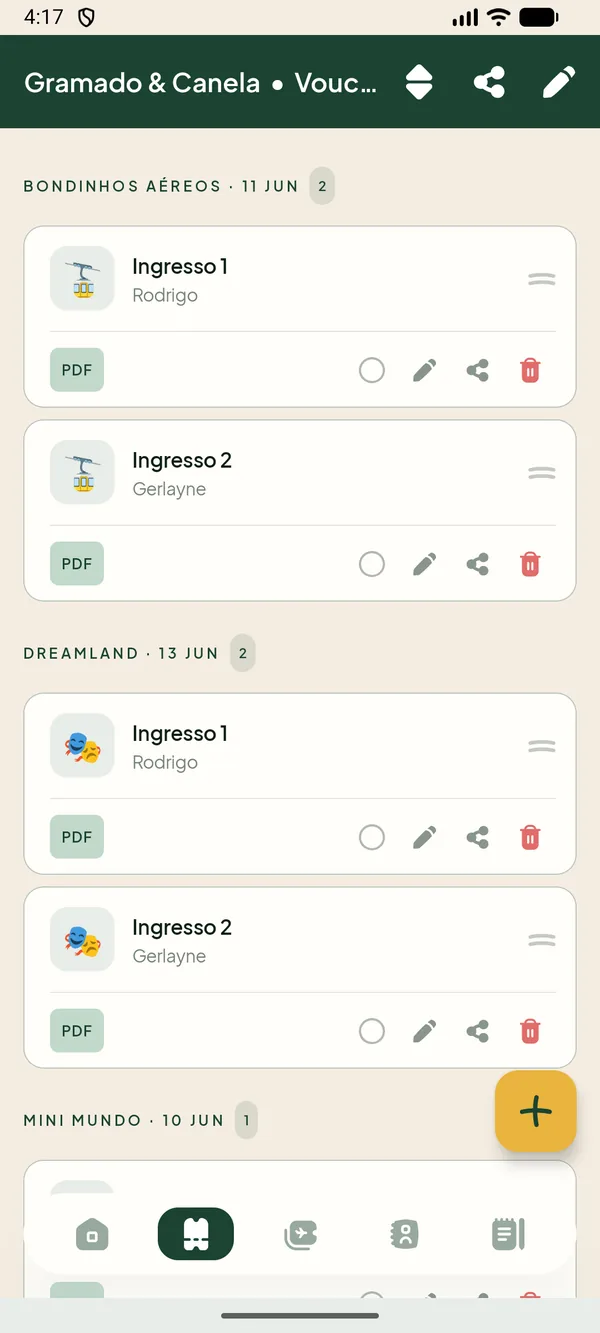
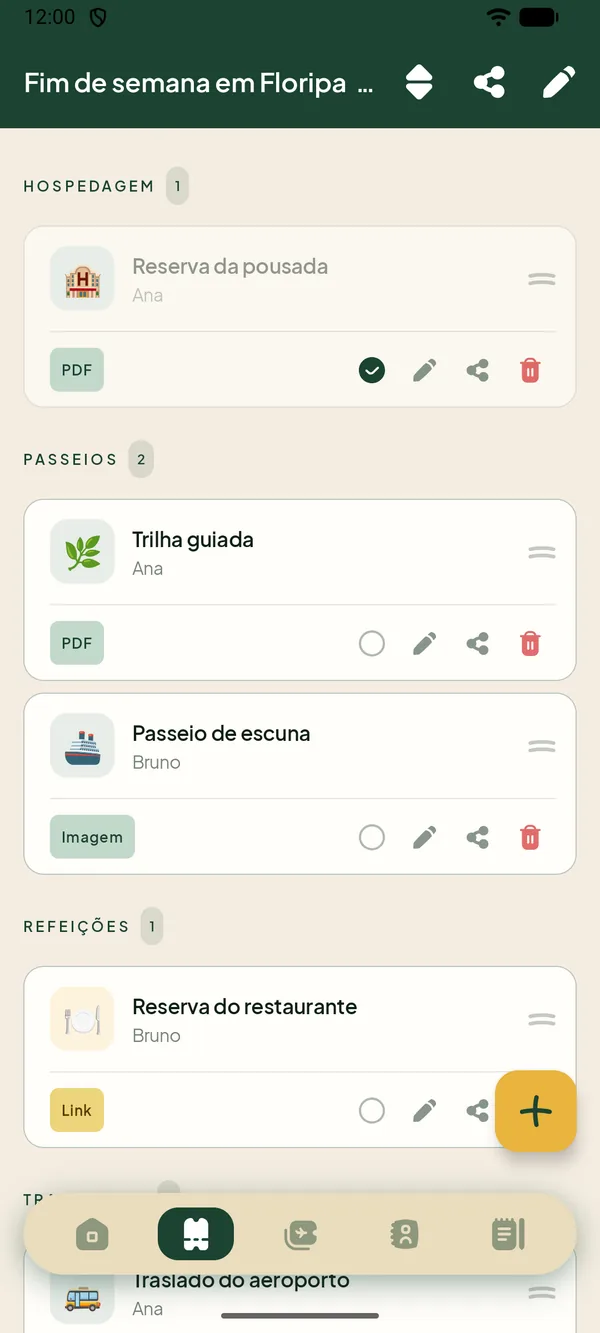
docs(site): capturas da home e do README refeitas com viagem fictícia
Substitui as seis capturas (lista de viagens, home, vouchers, passagens, contatos e novo
voucher), que mostravam a viagem "Gramado & Canela" com nomes e telefones reais, por
capturas de uma viagem inventada. Legenda do README ajustada.

diff --git a/README.md b/README.md
@@ -35,7 +35,7 @@ App Android nativo para organizar roteiros de viagem com previsão do tempo ao v
   </tr>
 </table>
 
-> Screenshots capturados do build **debug** (que semeia a viagem de exemplo "Gramado & Canela").
+> Screenshots do app com uma viagem fictícia de exemplo (dados inventados).
 
 ## Stack
 
